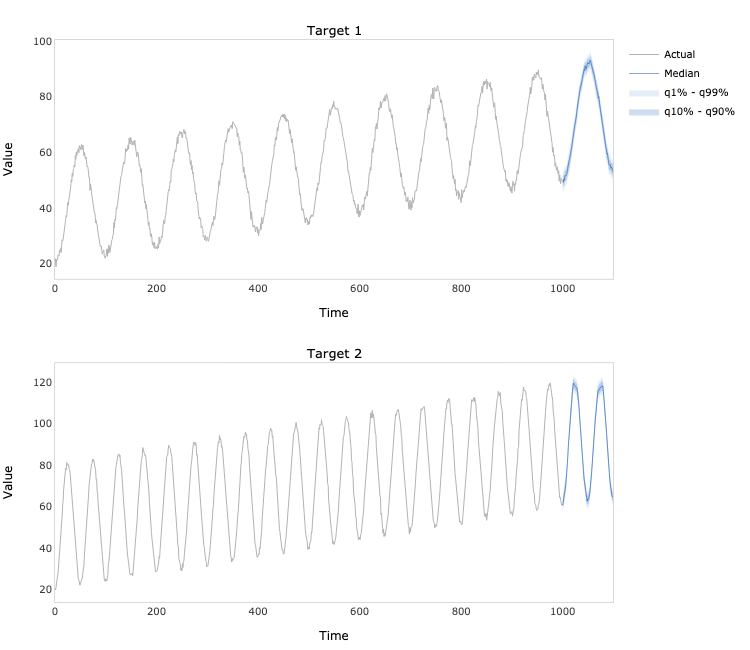
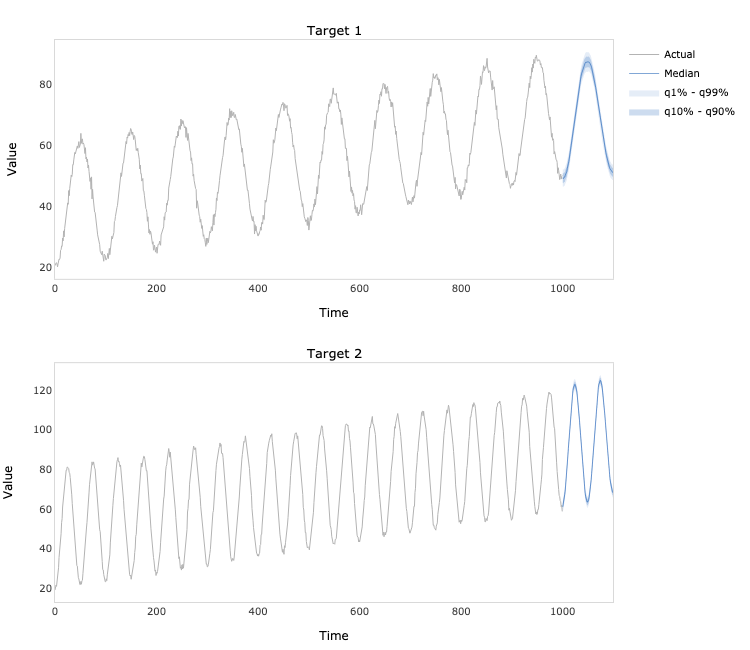
update requirements

diff --git a/tcan_tensorflow/model.py b/tcan_tensorflow/model.py
@@ -66,47 +66,6 @@ class TCAN():
             Entmax parameter.
         '''
 
-        if type(y) != np.ndarray:
-            raise ValueError('The target time series must be provided as a numpy array.')
-
-        elif np.isnan(y).sum() != 0:
-            raise ValueError('The target time series cannot contain missing values.')
-
-        if len(y.shape) > 2:
-            raise ValueError('The targets array cannot have more than 2 dimensions. Found {} dimensions.'.format(len(y.shape)))
-
-        elif len(y.shape) == 1:
-            y = np.expand_dims(y, axis=1)
-
-        if x is not None:
-
-            if type(x) != np.ndarray:
-                raise ValueError('The features time series must be provided as a numpy array.')
-
-            elif np.isnan(x).sum() != 0:
-                raise ValueError('The features time series cannot contain missing values.')
-
-            if len(x.shape) > 2:
-                raise ValueError('The features array cannot have more than 2 dimensions. Found {} dimensions.'.format(len(x.shape)))
-
-            elif len(x.shape) == 1:
-                x = np.expand_dims(x, axis=1)
-
-            if y.shape[0] != x.shape[0]:
-                raise ValueError('The targets and features time series must have the same length.')
-
-        if type(dilation_rates) != list:
-            raise ValueError('The dilation rates must be provided as a list.')
-
-        elif len(dilation_rates) == 0:
-            raise ValueError('No dilation rates were provided.')
-
-        if type(quantiles) != list:
-            raise ValueError('The quantiles must be provided as a list.')
-
-        elif len(quantiles) == 0:
-            raise ValueError('No quantiles were provided.')
-
         # Extract the quantiles.
         q = np.unique(np.array(quantiles))
         if 0.5 not in q:
@@ -311,23 +270,6 @@ class TCAN():
         forecasts: pd.DataFrame.
             Data frame including the actual values of the time series and the predicted quantiles.
         '''
-
-        if x is not None:
-
-            if type(x) != np.ndarray:
-                raise ValueError('The features time series must be provided as a numpy array.')
-
-            elif np.isnan(x).sum() != 0:
-                raise ValueError('The features time series cannot contain missing values.')
-
-            if len(x.shape) == 1:
-                x = np.expand_dims(x, axis=1)
-
-            elif len(x.shape) > 2:
-                raise ValueError('The features array cannot have more than 2 dimensions. Found {} dimensions.'.format(len(x.shape)))
-
-            if x.shape[0] != self.n_forecast:
-                raise ValueError('The length of the features time series must be equal to the length of the forecast period.')
 
         if self.x is not None:
 

diff --git a/tcan_tensorflow/modules.py b/tcan_tensorflow/modules.py
@@ -35,16 +35,16 @@ def encoder(encoder_input, filters, kernel_size, dilation_rate, dropout):
         the encoder length and filters is the number of channels of the convolutional layers.
     '''
 
-    encoder_output = WeightNormalization(Conv1D(filters=filters, kernel_size=kernel_size, dilation_rate=dilation_rate, padding='causal'))(encoder_input)
+    encoder_output = WeightNormalization(Conv1D(filters=filters, kernel_size=kernel_size, dilation_rate=dilation_rate, padding='causal'), data_init=False)(encoder_input)
     encoder_output = ReLU()(encoder_output)
     encoder_output = Dropout(rate=dropout)(encoder_output)
 
-    encoder_output = WeightNormalization(Conv1D(filters=filters, kernel_size=kernel_size, dilation_rate=dilation_rate, padding='causal'))(encoder_output)
+    encoder_output = WeightNormalization(Conv1D(filters=filters, kernel_size=kernel_size, dilation_rate=dilation_rate, padding='causal'), data_init=False)(encoder_output)
     encoder_output = ReLU()(encoder_output)
     encoder_output = Dropout(rate=dropout)(encoder_output)
 
     if encoder_input.shape[-1] != encoder_output.shape[-1]:
-        encoder_input = Conv1D(filters=1, kernel_size=1)(encoder_input)
+        encoder_input = Conv1D(filters=filters, kernel_size=1)(encoder_input)
 
     encoder_output = Add()([encoder_input, encoder_output])
 

diff --git a/example/example.py b/example/example.py
@@ -14,19 +14,19 @@ model = TCAN(
     y=y,
     x=None,
     forecast_period=100,
-    lookback_period=300,
+    lookback_period=200,
     quantiles=[0.01, 0.1, 0.5, 0.9, 0.99],
-    filters=2,
-    kernel_size=3,
-    dilation_rates=[1, 2],
+    filters=32,
+    kernel_size=7,
+    dilation_rates=[1, 2, 4],
     dropout=0,
     alpha=1.5
 )
 
 model.fit(
     regularization=0.5,
-    learning_rate=0.01,
-    batch_size=64,
+    learning_rate=0.001,
+    batch_size=32,
     epochs=200,
     verbose=1
 )

diff --git a/README.MD b/README.MD
@@ -10,12 +10,12 @@ Joint Conference on Neural Networks (IJCNN)* (pp. 1-8). IEEE.
 
 ## Dependencies
 ```bash
-pandas==1.3.4
-numpy==1.19.5
-tensorflow==2.7.0
-tensorflow_probability==0.14.1
-tensorflow_addons==0.15.0
-plotly==5.3.1
+pandas==1.5.1
+numpy==1.23.3
+tensorflow==2.9.1
+tensorflow_probability==0.17.0
+tensorflow_addons==0.17.1
+plotly==5.10.0
 kaleido==0.2.1
 ```
 ## Usage
@@ -36,19 +36,19 @@ model = TCAN(
     y=y,
     x=None,
     forecast_period=100,
-    lookback_period=300,
+    lookback_period=200,
     quantiles=[0.01, 0.1, 0.5, 0.9, 0.99],
-    filters=2,
-    kernel_size=3,
-    dilation_rates=[1, 2],
+    filters=32,
+    kernel_size=7,
+    dilation_rates=[1, 2, 4],
     dropout=0,
     alpha=1.5
 )
 
 model.fit(
     regularization=0.5,
-    learning_rate=0.01,
-    batch_size=64,
+    learning_rate=0.001,
+    batch_size=32,
     epochs=200,
     verbose=1
 )
